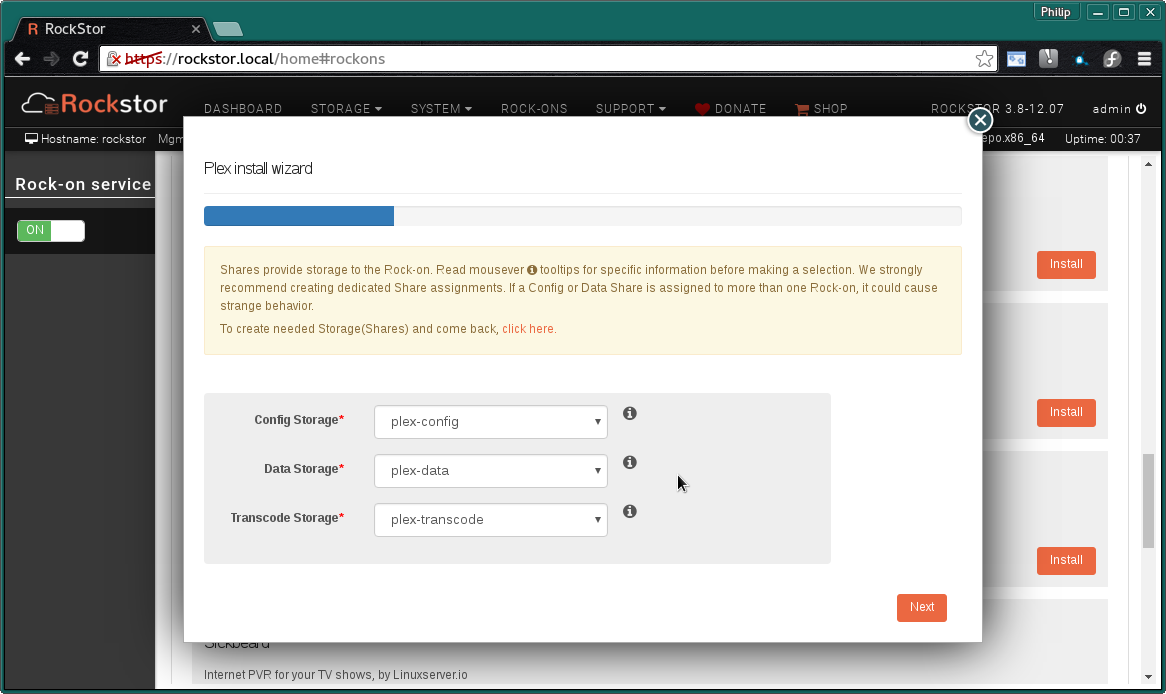
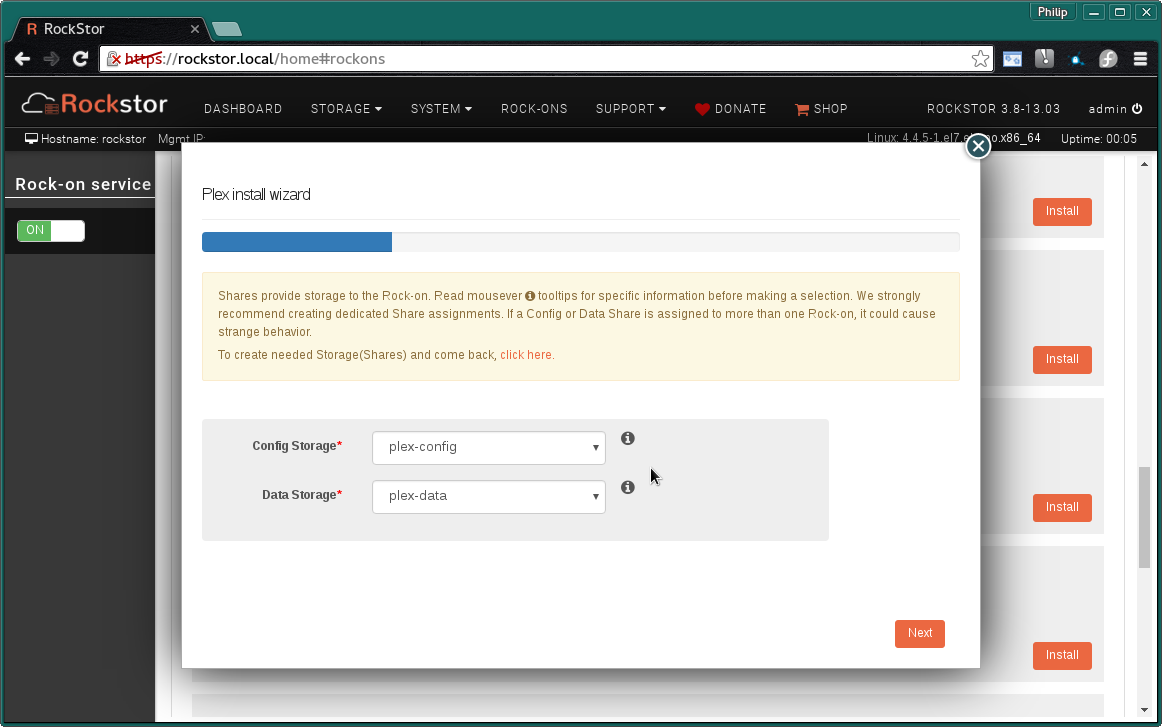
remove depricated transcode share #135
Also update image showing the new share arrangement.

diff --git a/docker-based-rock-ons/plex-media-server.rst b/docker-based-rock-ons/plex-media-server.rst
@@ -78,16 +78,14 @@ Click the **Install** button next to the Plex listing on the Rock-ons page.
 Plex Shares
 ^^^^^^^^^^^
 
-Next we select the **Storage areas** for the Plex Rock-on's **data**,
-**configuration**, and **transcode** files. Note that the order of these items
-may vary.
+Next we select the **Storage areas** for the Plex Rock-on's **data** and
+**configuration** files. Note that the order of these items may vary.
 
 Please note that it is best practice to have all these shares owned by a
 non-admin non-root user ie *plex*.
 
 * **Config Storage** - minimum 20 GB
 * **Data Storage** - room enough for your data and snapshots - minimum 100GB
-* **Transcode Storage** - minimum 10 GB
 
 If you find that these values are insufficient then please discus this on the
 `Rockstor forum <http://forum.rockstor.com/t/plex-media-server-rock-on/179>`_
